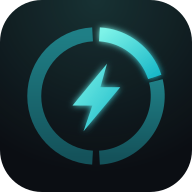
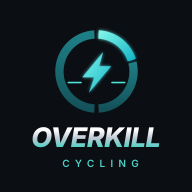
Icono de la app con isologo y nombre (pantalla de inicio de Android)
Los iconos "any" llevan el isologo con OVERKILL CYCLING; el maskable (icono del
celular) queda solo con el isologo.

Claude-Session: https://claude.ai/code/session_01G163vZvExzgiaZuRbpwtMm

diff --git a/app/manifest.ts b/app/manifest.ts
@@ -13,8 +13,8 @@ export default function manifest(): MetadataRoute.Manifest {
     theme_color: "#0B0E13",
     lang: "es",
     icons: [
-      { src: "/icon-192.png", sizes: "192x192", type: "image/png", purpose: "any" },
-      { src: "/icon-512.png", sizes: "512x512", type: "image/png", purpose: "any" },
+      { src: "/icon-192.png?v=2", sizes: "192x192", type: "image/png", purpose: "any" },
+      { src: "/icon-512.png?v=2", sizes: "512x512", type: "image/png", purpose: "any" },
       { src: "/icon-maskable-512.png", sizes: "512x512", type: "image/png", purpose: "maskable" },
     ],
   };
